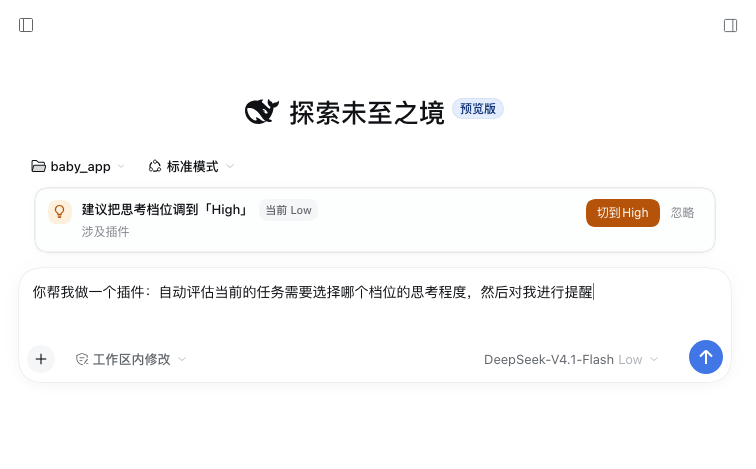
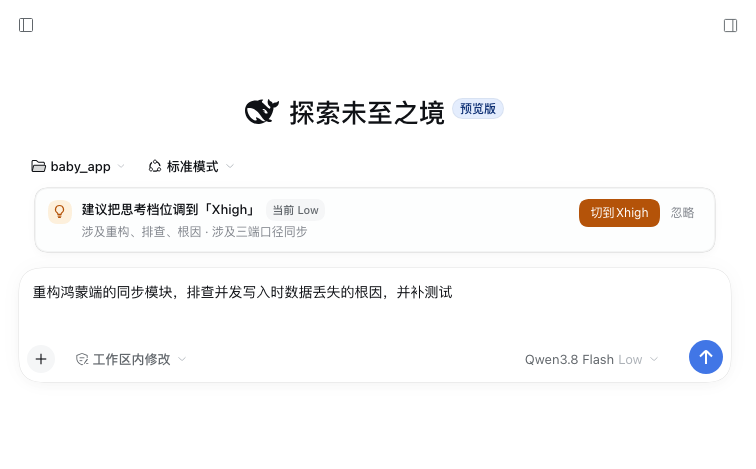
fix: silence plain statements and respect session context

diff --git a/lib/client.js b/lib/client.js
@@ -26,7 +26,7 @@ window.__ModuleLoader__.load({
 			"修改", "新增", "更新", "修复", "测试", "检查", "对比", "生成", "整理", "文档",
 			"脚本", "页面", "接口", "字段", "样式", "布局", "交互", "流程", "配置", "安装",
 			"升级", "替换", "补全", "梳理", "分析", "设计", "优化", "方案", "说明", "解释",
-			"示例", "总结", "评估", "校准", "验证"
+			"示例", "总结", "评估", "校准", "验证", "失败", "日志", "原因"
 		];
 		const SIMPLE_WORDS = [
 			"翻译", "格式化", "改名", "文案", "列出", "是什么", "确认", "删除",
@@ -36,17 +36,40 @@ window.__ModuleLoader__.load({
 		const STEP_WORDS = ["然后", "接着", "最后", "首先", "其次", "并且", "同时", "分别", "再"];
 		const CONSTRAINT_WORDS = ["必须", "不要", "禁止", "务必", "不能", "需要保证", "不能破坏"];
 
+		/** 只有「让我做事」才提醒；纯陈述、纯描述一律沉默。 */
+		const REQUEST_MARKERS = [
+			"帮我", "请你", "请", "麻烦", "能不能", "能否", "可以", "你来", "你帮", "看下", "看看", "查下", "查查",
+			"实现", "生成", "创建", "发布", "安装", "部署", "迁移", "重构", "排查", "调试", "分析", "评估", "设计",
+			"优化", "梳理", "总结", "翻译", "解释", "验证", "测试", "对比", "建议", "提醒", "判断", "选择", "配置",
+			"改一下", "改下", "改成", "换成", "修一下", "修下", "修复", "加个", "加上", "补上", "补充", "更新", "新增", "删除",
+			"为什么", "怎么办", "如何", "怎样", "是不是", "有没有", "是否", "什么意思", "列一下", "列出", "跑一下", "运行"
+		];
+		const REQUEST_LEADING = /^(帮我|请|麻烦|把|给|来|做|写|改|修|加|删|查|看|实|生|创|发|安|部|迁|重|排|调|分|评|设|优|梳|总|翻|解|验|测|对|建|提|判|选|配|更|新|补|你|能|可)/u;
+
+		/** 项目上下文：本工作区是三端同仓，动一端常要同步另外两端。 */
+		const PLATFORM_WORDS = ["安卓", "鸿蒙", "ios", "android", "flutter", "arkts", "swiftui", "三端", "双端", "跨端", "客户端", "服务端"];
+		const PLATFORM_CHANGE = /(改|修|加|删|同步|更新|发布|配置|迁移|实现|重构|补)/u;
+
 		/**
-		 * 本地启发式评估：零网络、零延迟，只根据输入文本给出建议档位。
-		 * 规则刻意保守——宁可少提醒，也不要在简单任务上反复打扰。
+		 * 本地启发式评估：零网络、零延迟，只根据输入文本 + 会话上下文给出建议档位。
+		 * 两道闸门压掉误报：先要求这句话是「请求」而不是「陈述」，
+		 * 再要求会话里的追问足够重才打扰——用户接着聊时多半不需要重新定档。
 		 *
 		 * @param {string} raw 输入框纯文本
+		 * @param {{followUp?: boolean}} [opts] followUp = 当前会话已有历史轮次
 		 * @returns {{level: 'low'|'medium'|'high', score: number, reasons: string[], hits: object}|null}
 		 */
-		function analyzeTask(raw) {
+		function analyzeTask(raw, opts) {
+			const followUp = Boolean(opts && opts.followUp);
 			const text = String(raw == null ? "" : raw).replace(/\r\n?/gu, "\n").trim();
 			if (text === "" || text.startsWith("/")) return null;
 			if (text.length < 6) return null;
+
+			const lowerAll = text.toLowerCase();
+			const asksSomething = REQUEST_MARKERS.some((word) => lowerAll.includes(word.toLowerCase()))
+				|| /[？?]$/u.test(text)
+				|| REQUEST_LEADING.test(text);
+			if (!asksSomething) return null;
 
 			const lower = text.toLowerCase();
 			const reasons = [];
@@ -75,7 +98,12 @@ window.__ModuleLoader__.load({
 				score += Math.min(2, mediumHits.length);
 				if (highHits.length === 0) reasons.push(`需要${mediumHits.slice(0, 2).join("、")}`);
 			}
-			if (simpleHits.length > 0) {
+			const platformHits = hitsOf(PLATFORM_WORDS);
+			const crossPlatform = platformHits.length > 0 && PLATFORM_CHANGE.test(text);
+			if (crossPlatform) {
+				score += 2;
+				reasons.push("涉及三端口径同步");
+			} else if (simpleHits.length > 0) {
 				score -= Math.min(3, 1 + simpleHits.length);
 				reasons.push("看起来是简单直接的任务");
 			}
@@ -123,6 +151,9 @@ window.__ModuleLoader__.load({
 
 			score = Math.max(0, Math.min(9, score));
 			const level = score >= 6 ? "high" : score >= 3 ? "medium" : "low";
+
+			// 追问场景只放行两端：明显要升档，或明显可以直接降档省钱。
+			if (followUp && score < 7 && score > 1) return null;
 
 			if (reasons.length === 0) reasons.push(level === "low" ? "任务比较直接" : "任务信息量一般");
 
@@ -212,9 +243,11 @@ window.__ModuleLoader__.load({
 			if (exact !== undefined) return exact;
 			const byName = efforts.find((item) => String(item.name || "").includes(levelLabel(level)));
 			if (byName !== undefined) return byName;
-			if (level === "low") return efforts[0];
-			if (level === "high") return efforts[efforts.length - 1];
-			return efforts[Math.floor((efforts.length - 1) / 2)];
+			// 档位表命名不统一（minimal/xhigh/max）时按比例落到最接近的一档，
+			// 避免把 high 直接顶到最高档，白烧 token。
+			const ratio = level === "low" ? 0 : level === "medium" ? 0.5 : level === "high" ? 0.75 : 1;
+			const index = Math.round(ratio * (efforts.length - 1));
+			return efforts[Math.max(0, Math.min(efforts.length - 1, index))];
 		}
 
 		function currentSelectionOf(catalog, projected) {
@@ -226,12 +259,12 @@ window.__ModuleLoader__.load({
 		}
 
 		function useSnapshot(store) {
-			const safe = store || EMPTY_STORE;
-			return React.useSyncExternalStore(
-				React.useCallback((listener) => safe.subscribe(listener), [safe]),
-				React.useCallback(() => safe.getSnapshot(), [safe]),
-				React.useCallback(() => safe.getSnapshot(), [safe])
-			);
+			const usable = store !== null && store !== undefined && typeof store.getSnapshot === "function";
+			const read = React.useCallback(() => (usable ? store.getSnapshot() : null), [usable, store]);
+			const subscribe = React.useCallback((listener) => (usable && typeof store.subscribe === "function"
+				? store.subscribe(listener)
+				: () => {}), [usable, store]);
+			return React.useSyncExternalStore(subscribe, read, read);
 		}
 
 		const STYLE_ID = "dsh-plugin-thinking-level/style";
@@ -278,13 +311,23 @@ window.__ModuleLoader__.load({
 			h("path", { d: "M6.4 12.8h3.2M7 14.2h2" })
 		);
 
+		/** 同一档位被忽略后，要更极端的分数才再次提醒。 */
+		function worthRepeating(suggestion) {
+			if (suggestion.level === "high") return suggestion.score >= 8;
+			if (suggestion.level === "medium") return suggestion.score >= 5;
+			// 降档建议在同一会话里只提醒一次，忽略后不再啰嗦。
+			return false;
+		}
+
 		function ThinkingDock(props) {
 			const state = useSnapshot(props.inputState);
 			const projected = useSnapshot(props.selectionStore);
+			const session = useSnapshot(props.sessionStore);
 			const [catalog, setCatalog] = React.useState(props.catalog || null);
 			const [dismissedFor, setDismissedFor] = React.useState("");
 			const [applying, setApplying] = React.useState(false);
 			const [applyError, setApplyError] = React.useState("");
+			const dismissedLevels = React.useRef([]);
 
 			React.useEffect(() => {
 				let cancelled = false;
@@ -297,7 +340,9 @@ window.__ModuleLoader__.load({
 
 			const draft = state && typeof state.draft === "string" ? state.draft : "";
 			const phase = state && typeof state.phase === "string" ? state.phase : "";
-			const suggestion = React.useMemo(() => analyzeTask(draft), [draft]);
+			// blank === false 说明会话已有历史轮次，这句是追问而不是新任务。
+			const followUp = Boolean(session && session.blank === false);
+			const suggestion = React.useMemo(() => analyzeTask(draft, { followUp }), [draft, followUp]);
 
 			const selection = currentSelectionOf(catalog, projected);
 			const reasoning = selection === null ? null : reasoningFor(catalog, selection.provider, selection.model);
@@ -322,7 +367,10 @@ window.__ModuleLoader__.load({
 				(dismissedFor.startsWith(trimmed) && dismissedFor.length - trimmed.length < 30)
 			);
 
-			if (suggestion === null || phase !== "plain" || dismissed || applying === false && suggestedIndex === currentIndex && currentIndex !== null) return null;
+			if (session && session.subagent !== null && session.subagent !== undefined) return null;
+			if (suggestion === null || phase !== "plain" || dismissed) return null;
+			if (dismissedLevels.current.includes(suggestion.level) && !worthRepeating(suggestion)) return null;
+			if (applying === false && suggestedIndex !== null && currentIndex !== null && suggestedIndex === currentIndex) return null;
 			if (suggestedIndex === null || currentIndex === null) {
 				if (suggestion.level === "low") return null;
 			}
@@ -383,7 +431,10 @@ window.__ModuleLoader__.load({
 						h("button", {
 							type: "button",
 							className: "tl-button tl-dismiss",
-							onClick: () => setDismissedFor(trimmed)
+							onClick: () => {
+								if (!dismissedLevels.current.includes(suggestion.level)) dismissedLevels.current.push(suggestion.level);
+								setDismissedFor(trimmed);
+							}
 						}, "忽略")
 					)
 				)
@@ -406,8 +457,10 @@ window.__ModuleLoader__.load({
 					if (shell === null || shell === undefined) return {};
 
 					let selectionStore = null;
+					let sessionStore = null;
 					try {
 						const binding = ctx.sessions.binding(sessionId);
+						sessionStore = binding && binding.session ? binding.session : null;
 						selectionStore = binding && binding.session && binding.session.projections
 							? binding.session.projections.faceOf("modelSelection")
 							: null;
@@ -422,6 +475,7 @@ window.__ModuleLoader__.load({
 						sessionId,
 						inputState: shell.state,
 						selectionStore,
+						sessionStore,
 						loadCatalog: () => loadCatalog(ctx),
 						select: remoteSession && typeof remoteSession.selectModel === "function"
 							? (selection) => remoteSession.selectModel({ sessionId, ...selection })

diff --git a/README.md b/README.md
@@ -15,22 +15,31 @@
 
 ## 行为
 
+只在「这句话要我干活、而且当前档位不合适」时才提醒，两道闸门：
+
+1. **意图闸门**：先判断这句是请求还是陈述。纯描述（“今天宝宝体检完了”“刚才构建失败了”“我觉得这个颜色有点深”）一律沉默；出现「帮我 / 请 / 能不能 / 改成 / 排查 / 为什么 / ？」这类请求信号才会评估。
+2. **上下文闸门**：会话已有历史轮次时（`blank === false`），说明你在追问，只有「明显要升档」（分数 ≥ 7）或「明显可以直接降档省钱」才会提醒；子代理会话完全不提醒。
+
+另外：
+
 - 输入框为空、以 `/` 开头的命令、或少于 6 个字符时不提醒。
 - 当前档位已经合适时不打扰。
-- 提醒卡会说明理由，例如“涉及插件、排查、报错”“包含多步操作”。
-- 点 **切到 High / 降到 Low** 会切换当前会话的推理等级；点 **忽略** 后同一段草稿（小改动不超过 30 字）不再出现。
-- 清空或换成新任务后会重新评估。
+- **项目上下文**：本工作区是三端同仓，提到安卓 / 鸿蒙 / iOS / Flutter / ArkTS / SwiftUI 并且要改动时，会按跨端口径同步规则升一档，理由显示“涉及三端口径同步”。
+- 提醒卡会说明理由，例如“涉及重构、排查、根因 · 涉及三端口径同步”。
+- 点 **切到 Xhigh / 降到 Low** 会切换当前会话的推理等级；点 **忽略** 后同一段草稿（小改动不超过 30 字）不再出现。
+- 同一档位被忽略后，本会话内更苛刻才再提醒：升到高需要分数 ≥ 8、中需要 ≥ 5，降档只提醒一次。
 
 ## 判定规则
 
-本地启发式，不调用模型：
+本地启发式，不调用模型，零网络：
 
+- **意图信号**（先决条件）：帮我、请、麻烦、能不能、看下、改成、修一下、实现、生成、发布、排查、为什么、如何、是不是，或以问号结尾。
 - **强信号**：架构、重构、排查、调试、根因、并发、性能、安全、迁移、跨端、协议、算法、实现、开发、插件、集成、兼容、崩溃、报错、异常、数据丢失等。
 - **中信号**：修改、新增、修复、检查、测试、接口、字段、配置、评估、验证等。
 - **弱信号**：翻译、格式化、改名、文案、列出、颜色、字体、简单、只需要等。
 - **结构信号**：文本长度、代码块、堆栈/报错、多个文件路径、多步连接词、多个问号、约束数量。
 
-分数 `>= 6` → 高，`3–5` → 中，`<= 2` → 低。关键词和阈值都在 [`lib/client.js`](lib/client.js) 顶部的常量里，按自己的习惯改即可。
+分数 `>= 6` → 高，`3–5` → 中，`<= 2` → 低；追问时只放行 `>= 7` 或 `<= 1`。关键词和阈值都在 [`lib/client.js`](lib/client.js) 顶部的常量里，按自己的习惯改即可。
 
 ## 安装
 
@@ -59,7 +68,7 @@ dsh plugin --profile desktop add /path/to/dsh-plugin-thinking-level
 node test/client.test.mjs
 ```
 
-测试直接加载 `lib/client.js`，校验 `__ModuleLoader__` 协议、导出、以及一组典型任务的档位判定。
+测试直接加载 `lib/client.js`，校验 `__ModuleLoader__` 协议、导出、17 条草稿判定和 5 条追问判定（含纯陈述必须沉默）。
 
 ## English
 
